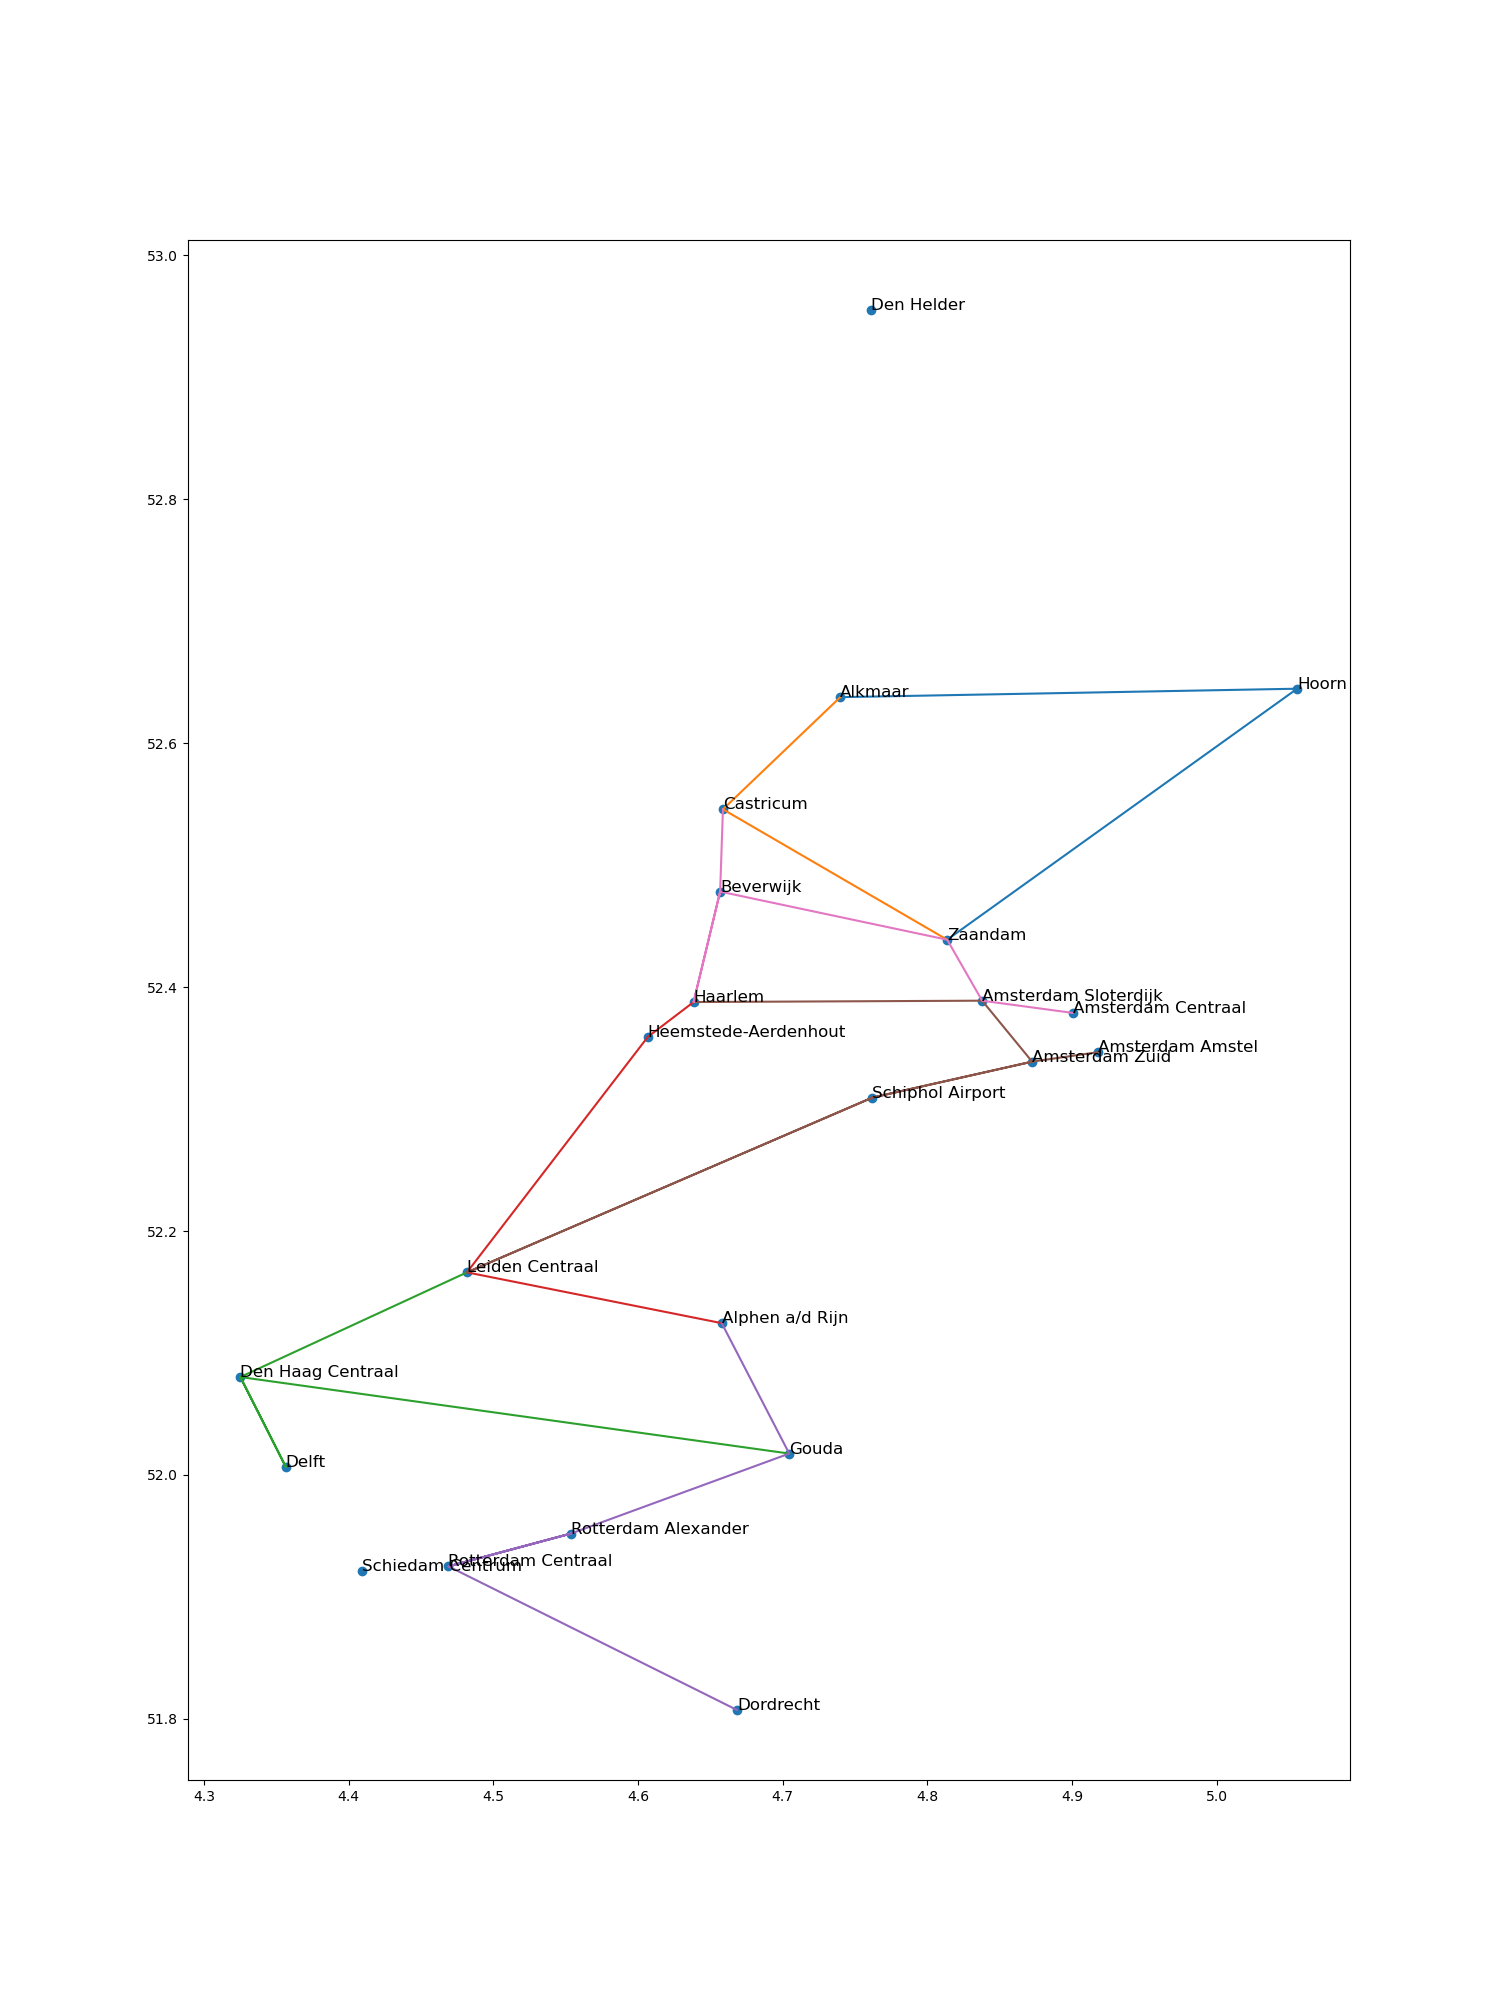
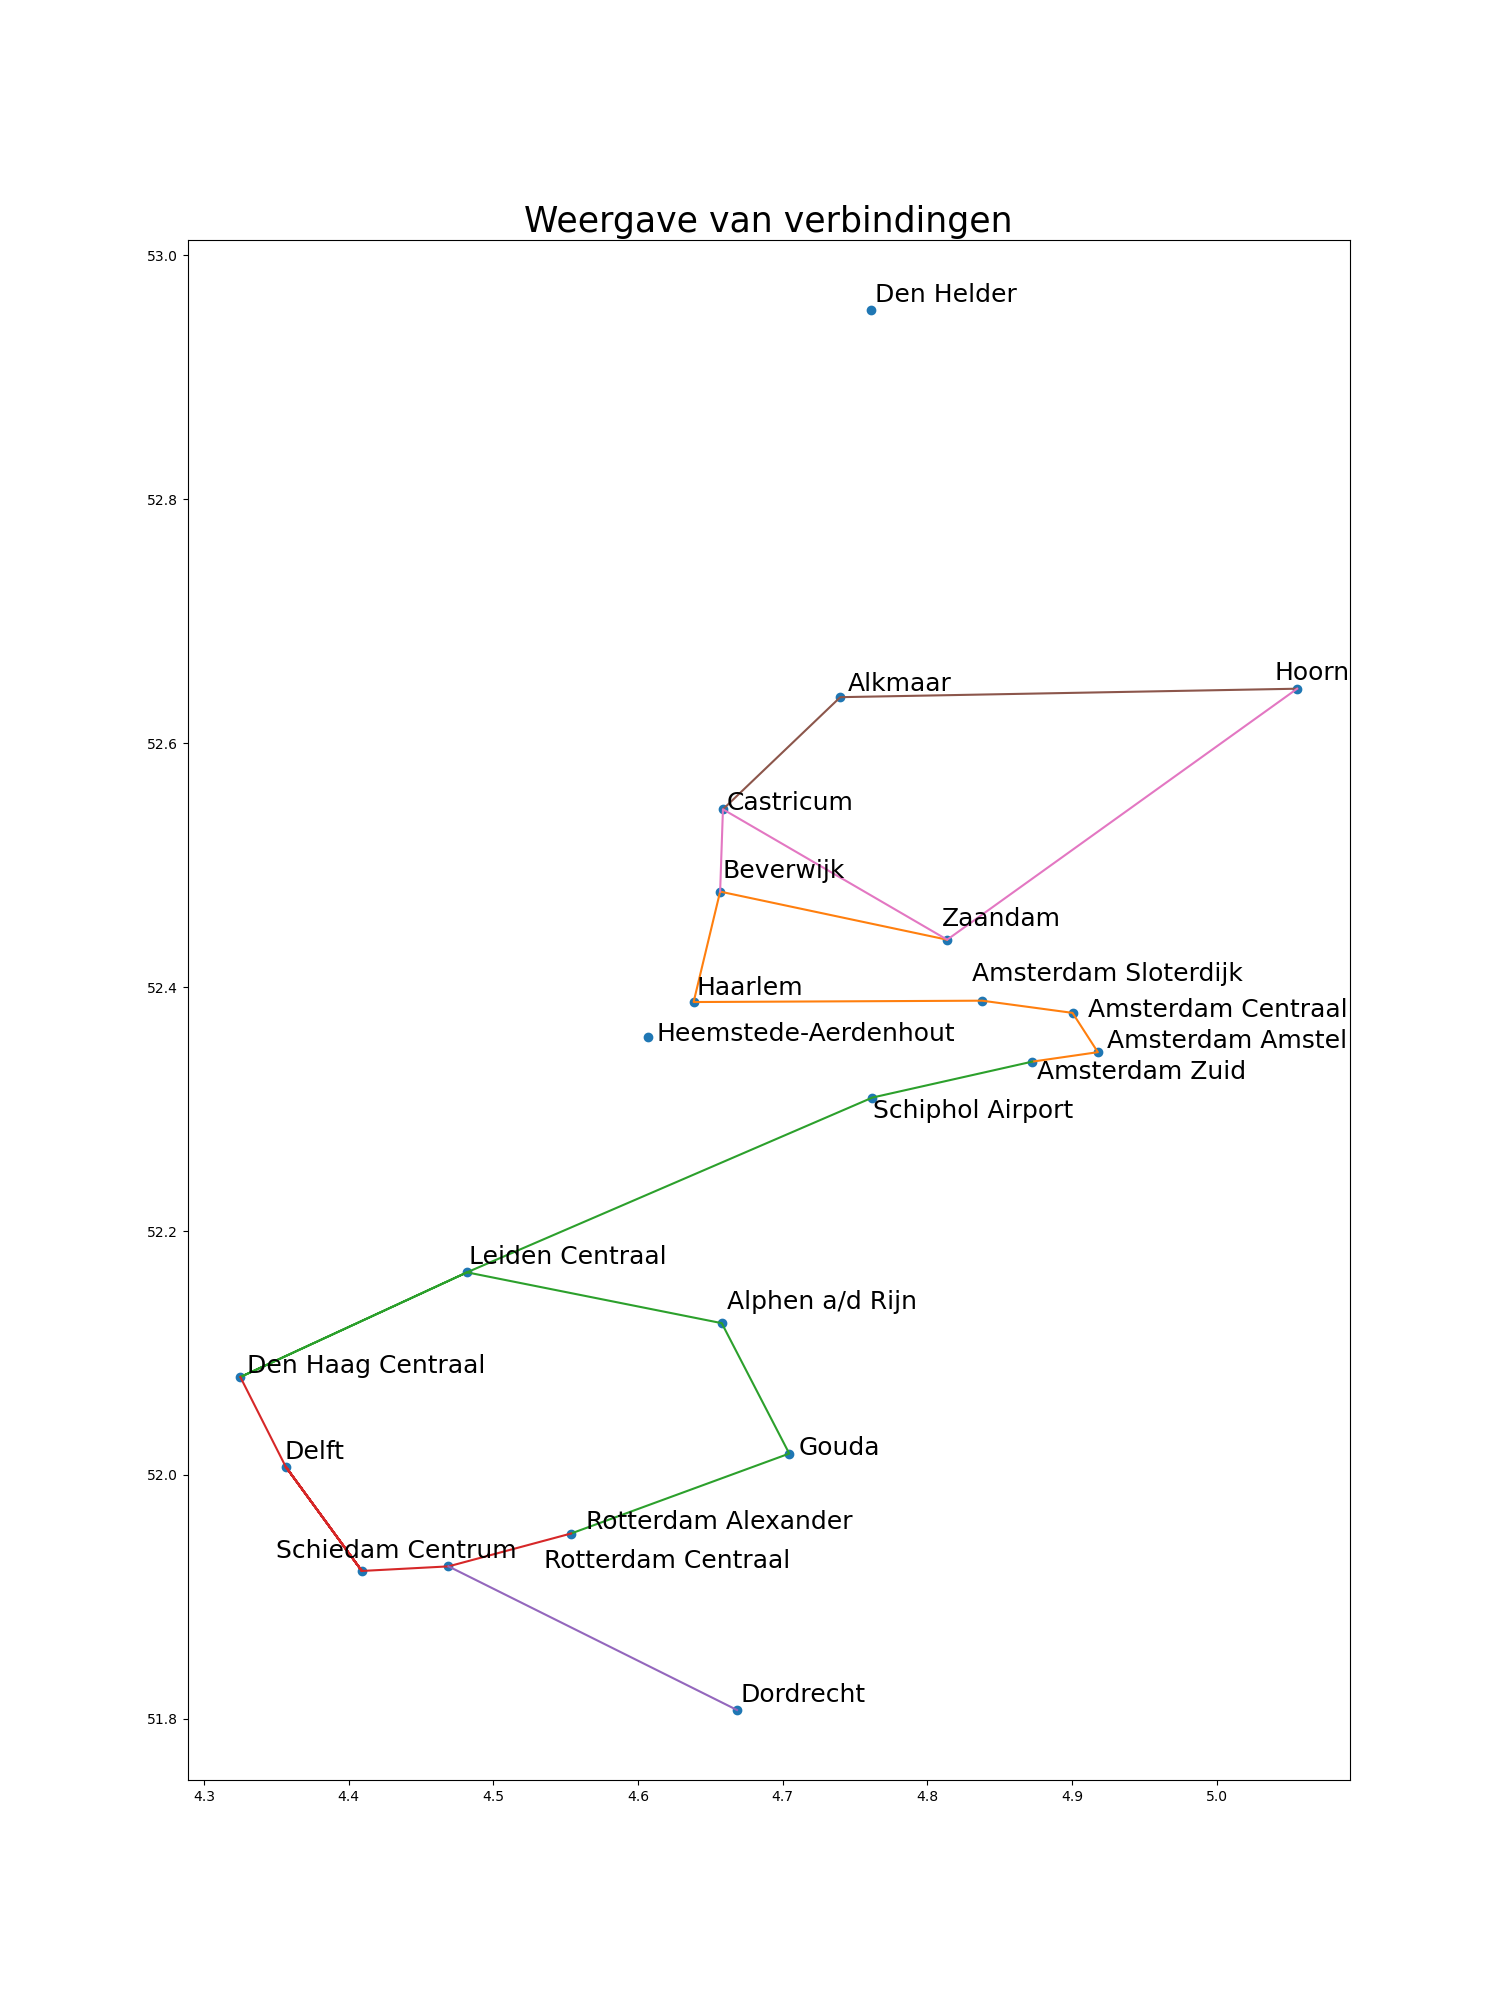
plotten afgewerkt

diff --git a/code/bouwblokjes/plot_trajectories.py b/code/bouwblokjes/plot_trajectories.py
@@ -1,10 +1,10 @@
 # Aangemaakt door Addey
-# Hier plotten we een voorbeeld van trajecten
 
 import csv
 import matplotlib.pyplot as plt
 from code.bouwblokjes.inladen import make_stations
 import numpy as np
+from adjustText import adjust_text
 
 
 def plot_track(track: list, stations_file = 'StationsHolland.csv'):
@@ -20,7 +20,7 @@ def plot_track(track: list, stations_file = 'StationsHolland.csv'):
 
 
 def run_plot_trajectories(csv_file, save_file, stations_file = 'StationsHolland.csv'):
-    """ Namen van stations plotten op de juiste plaats en de functie plot_track aanroepen. """
+    """Namen van stations plotten op de juiste plaats en de functie plot_track aanroepen."""
         
     stations = make_stations(stations_file = stations_file)
     # data in list stoppen
@@ -33,8 +33,9 @@ def run_plot_trajectories(csv_file, save_file, stations_file = 'StationsHolland.
     plt.scatter(x, y)
 
     # namen van stations weergeven
+    texts = []
     for i, name in enumerate(station_names):
-        plt.text(x[i], y[i], name, fontsize=12)
+        texts.append(plt.text(x[i], y[i], name, fontsize=18))
 
     # Gereden trajecten inlezen en plotten
     with open(csv_file, 'r') as csvfile:
@@ -45,27 +46,36 @@ def run_plot_trajectories(csv_file, save_file, stations_file = 'StationsHolland.
                 break
             plot_track(row[1], stations_file=stations_file)
         
-    # opslaan en weergeven
+    # opslaan en weergeven'
+    adjust_text(texts)
+    plt.title("Weergave van verbindingen", fontsize=25)
     plt.savefig(save_file) 
     plt.show()
 
 
-def run_plot_random_alg_score(scores, save_file):
-    """ Scores van random algoritme plotten in een histogram. """
+def run_plot_random_alg_score(scores, save_file,titel='Histogram van Algoritme Scores' ):
+    """ Scores van algoritme plotten in een histogram. """
     # plotten 
+    plt.figure(figsize=(15, 15))
     plt.hist(scores, bins=20, density=True, alpha=0.6, color='g', label='Scores')
     plt.grid(True)
-    
+    plt.xlabel('Score', fontsize=16)  
+    plt.ylabel('Dichtheid', fontsize=16)  
+    plt.title(titel, fontsize=20)
     # opslaan en weergeven
     plt.savefig(save_file) 
     plt.show()
 
-def plot_iterations_scores(scores,iterations, save_file):
+def plot_iterations_scores(scores,iterations, save_file, titel='Score per iteratie'):
     
-    """ Scores van een algoritme plotten """
+    """ Score na elke iteratie plotten """
     y = [score for score in scores]
     x = [iteration for iteration in range(iterations)]
     plt.plot(x,y)
+
+    plt.xlabel('Iteratie', fontsize=16)  
+    plt.ylabel('Score', fontsize=16)  
+    plt.title(titel,fontsize=20)
     plt.savefig(save_file) 
     plt.show()
 

diff --git a/main.py b/main.py
@@ -189,9 +189,9 @@ if __name__ == "__main__":
             print("werkt niet")
     
         # --------------------------- Hill Climber ---------------------------------
-        number_random_startstate = 5
+        number_random_startstate = 10000
         hillclimber_iteration = 800
-        hillclimber_restart_iteration= 10
+        hillclimber_restart_iteration= 100
 
         print("Setting up Hill Climber...")
         random_chosen_solution = make_random_start_state( number_random_startstate)
@@ -213,7 +213,7 @@ if __name__ == "__main__":
     
         # hillclimber meerdere keren runnen en plotten
         hc_restart = restart_hillclimber(hillclimber_restart_iteration, hillclimber_iteration, random_chosen_solution)
-        plot_iterations_scores(hc_restart[1],hillclimber_restart_iteration, 'data/images/hillclimber/scores_iteration_hillclimber.png')
+        run_plot_random_alg_score(hc_restart[1],'data/images/hillclimber/scores_iteration_hillclimber.png',"Restart Hill Climber scores")
         result_max = calculate_best_trajectory(hc_restart[0],hillclimber_restart_iteration)
         
         # de hilclimber met de beste score  plotten

diff --git a/code/algoritmes/hillClimber.py b/code/algoritmes/hillClimber.py
@@ -23,6 +23,7 @@ class HillClimber():
 
         getal = random.randint(0, len(new_trajectories)-1)
         new_trajectories.pop(getal)
+
       
     def delete_last_connection(self, new_trajectories):
         """Kies een willekeurig traject en verwijder de laatste verbinding"""
@@ -177,7 +178,7 @@ def make_random_start_state(number_of_starts):
     stations = make_connections()
     possible_solutions = []
     for i in range(number_of_starts):
-        solution = run_random_algoritme(stations,2)
+        solution = run_random_algoritme(stations,7)
         possible_solutions.append(solution)
     random_chosen_solution= random.choice(possible_solutions)
     return random_chosen_solution
